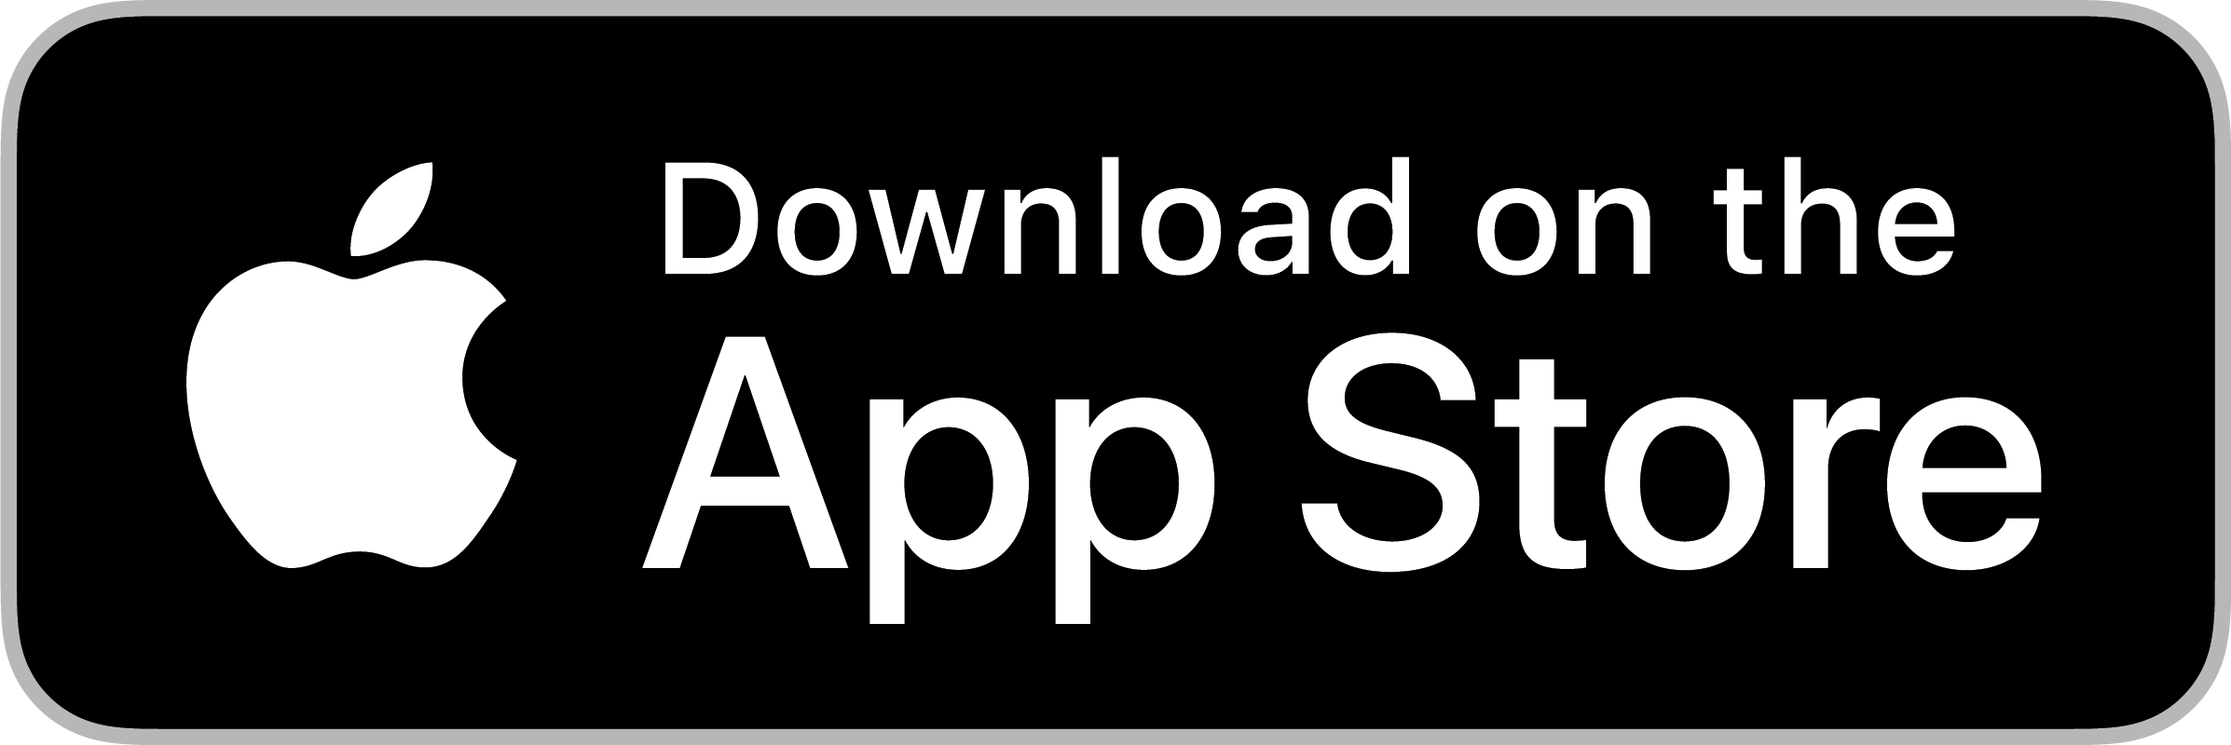
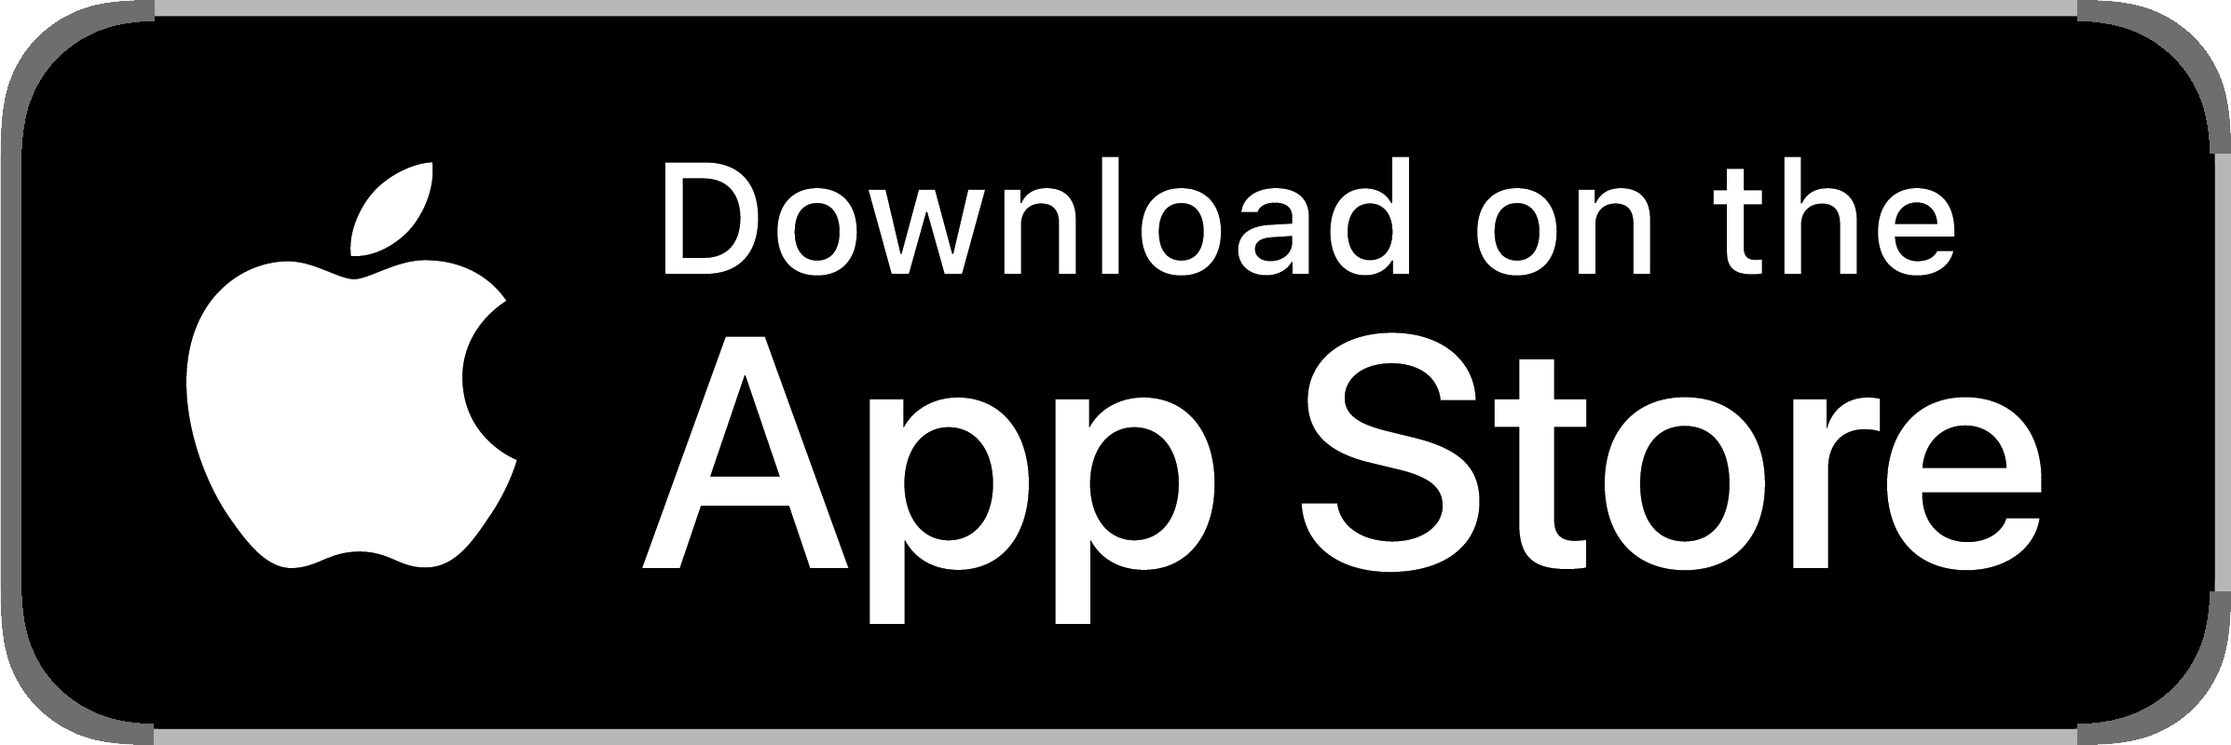
Add Color Blocks on Google Play + fix App Store badge border
Color Blocks (Android):
- color-blocks page: Google Play badge in hero + download CTA, Android
  in meta/JSON-LD (gamePlatform/operatingSystem/sameAs), FAQ, and copy
- Homepage Color Blocks tile: "iOS + Android" chip + "Also on Google Play"
- llms.txt, homepage schema/FAQs, and About now state two Android games
  (Solitaire, FreeCell and Spider + Color Blocks) and three iOS-only
  (Sudoku, Block Blast, Sudoku Blocks)

Install banner:
- app-banner.js kept as a single site-wide Solitaire promo on Android;
  documented one-object switch path for when Sudoku launches on Play

App Store badge:
- Regenerated Images/common/app-store-badge.png with a uniform-thickness
  border matching Google Play (color rgb(110,110,110)); the baked border
  was thin/absent at the rounded corners
- game.css: App Store badge border-radius 12px -> 0 so its native uniform
  border is no longer clipped at the corners

Changed region(s): [[0.0, 0.0, 0.0927, 1.0], [0.9273, 0.7812, 1.0, 1.0], [0.9273, 0.0, 1.0, 0.2188]]

diff --git a/color-blocks/index.html b/color-blocks/index.html
@@ -18,7 +18,7 @@
     <link rel="preload" as="image" href="/Images/color-blocks/icon.webp" fetchpriority="high">
     <meta name="google-site-verification" content="fRBxRKZFsAS5mQhSz_xLAbIeAymrdOOZXCcoSzE9fDw" />
     <title>Color Blocks — Colour-Match Puzzle | ASApps Games</title>
-    <meta name="description" content="Match 3+ blocks of the same color in this addictive puzzle game. Drag & drop blocks, create combos & unlock new colors. Free for iPhone & iPad. No pop-up ads.">
+    <meta name="description" content="Match 3+ blocks of the same color in this addictive puzzle game. Drag & drop blocks, create combos & unlock new colors. Free for iPhone, iPad & Android. No pop-up ads.">
     <link rel="canonical" href="https://asappsgames.com/color-blocks/">
     <meta property="og:title" content="Color Blocks - Addictive Color Match Puzzle Game">
     <meta property="og:description" content="Drag and drop multi-color blocks and match 3 or more of the same color. Unlock new colors, create combos, and play without pop-up ads. Rated 4.7 stars.">
@@ -42,12 +42,12 @@
                 "@id": "https://asappsgames.com/color-blocks/#game",
                 "name": "Color Blocks - Block Match",
                 "alternateName": ["Color Blocks", "Color Blocks Wooduko"],
-                "description": "Free color-matching block puzzle game for iPhone and iPad with no pop-up ads, no full-screen interruptions, and no required in-app purchases. Drag and drop multi-color blocks, match three or more blocks of the same color to clear them, create combos, and unlock new colors as you score higher. Works offline.",
+                "description": "Free color-matching block puzzle game for iPhone, iPad, and Android with no pop-up ads, no full-screen interruptions, and no required in-app purchases. Drag and drop multi-color blocks, match three or more blocks of the same color to clear them, create combos, and unlock new colors as you score higher. Works offline.",
                 "applicationCategory": "GameApplication",
                 "applicationSubCategory": "Puzzle",
                 "genre": ["Puzzle", "Color Match", "Casual"],
-                "gamePlatform": ["iOS", "iPhone", "iPad"],
-                "operatingSystem": "iOS 13.0 or later",
+                "gamePlatform": ["iOS", "iPhone", "iPad", "Android"],
+                "operatingSystem": "iOS 13.0 or later; Android",
                 "inLanguage": "en",
                 "offers": {
                     "@type": "Offer",
@@ -74,7 +74,10 @@
                 "url": "https://asappsgames.com/color-blocks/",
                 "installUrl": "https://apps.apple.com/us/app/color-blocks-block-match/id1476903896",
                 "downloadUrl": "https://apps.apple.com/us/app/color-blocks-block-match/id1476903896",
-                "sameAs": "https://apps.apple.com/us/app/color-blocks-block-match/id1476903896",
+                "sameAs": [
+                    "https://apps.apple.com/us/app/color-blocks-block-match/id1476903896",
+                    "https://play.google.com/store/apps/details?id=com.ASAppsGamesAU.colorBlocks"
+                ],
                 "author": { "@id": "https://asappsgames.com/#organization" },
                 "publisher": { "@id": "https://asappsgames.com/#organization" }
             },
@@ -139,7 +142,7 @@
                         "name": "Is Color Blocks available on Android?",
                         "acceptedAnswer": {
                             "@type": "Answer",
-                            "text": "Currently iOS only — iPhone, iPad, and iPod touch."
+                            "text": "Yes. Color Blocks is available on Android via Google Play, and on iPhone, iPad, and iPod touch via the App Store."
                         }
                     }
                 ]
@@ -176,7 +179,7 @@
         <section class="game-detail-section">
             <div class="game-detail-container animate-on-scroll">
                 <div class="game-detail-header">
-                    <img fetchpriority="high" width="240" height="240" src="/Images/color-blocks/icon.webp" alt="Color Blocks - Block Match — color-matching puzzle app icon for iPhone and iPad" class="game-detail-icon">
+                    <img fetchpriority="high" width="240" height="240" src="/Images/color-blocks/icon.webp" alt="Color Blocks - Block Match — color-matching puzzle app icon for iPhone, iPad and Android" class="game-detail-icon">
                     <div>
                         <nav class="crumbs" aria-label="Breadcrumb"><a href="https://asappsgames.com/">Home</a> <span style="opacity:.5">&rsaquo;</span> <strong>Color Blocks</strong></nav>
                 <h1>Color Blocks</h1>
@@ -190,9 +193,14 @@
                     <span class="feature-tag">Unique Gameplay</span>
                 </div>
 
-                <a href="https://apps.apple.com/us/app/color-blocks-block-match/id1476903896" class="app-store-button" rel="noopener" target="_blank">
-                    <img src="/Images/common/app-store-badge.png" alt="Download Color Blocks on the App Store" loading="lazy">
-                </a>
+                <div class="store-badges">
+                    <a href="https://apps.apple.com/us/app/color-blocks-block-match/id1476903896" class="app-store-button" rel="noopener" target="_blank">
+                        <img src="/Images/common/app-store-badge.png" alt="Download Color Blocks on the App Store" loading="lazy">
+                    </a>
+                    <a href="https://play.google.com/store/apps/details?id=com.ASAppsGamesAU.colorBlocks" class="app-store-button google-play-button" rel="noopener" target="_blank">
+                        <img src="/Images/common/google-play-badge.png" alt="Get Color Blocks on Google Play" loading="lazy">
+                    </a>
+                </div>
 
                 <div class="game-slider" data-game="color-blocks">
                     <div class="slider-nav"></div>
@@ -200,7 +208,7 @@
 
                 <div class="game-detail-description">
                     <h2>About Color Blocks</h2>
-                    <p>Color Blocks is a free color-matching block puzzle game for iPhone and iPad with <strong>no pop-up ads and no required in-app purchases</strong>. Drag and drop multi-color blocks onto the board, match three or more blocks of the same color to clear them, create combos for bonus points, and unlock new colors as your score grows. Works fully offline.</p>
+                    <p>Color Blocks is a free color-matching block puzzle game for iPhone, iPad, and Android with <strong>no pop-up ads and no required in-app purchases</strong>. Drag and drop multi-color blocks onto the board, match three or more blocks of the same color to clear them, create combos for bonus points, and unlock new colors as your score grows. Works fully offline.</p>
                     <p>As your score increases, new colors unlock, adding layers of strategy and challenge to every round. Use boosters and the hammer tool strategically to overcome tough spots. With its progressive color-unlocking system, every game session feels fresh and rewarding.</p>
 
                     <h2>Key Features</h2>
@@ -232,7 +240,7 @@
                     <h3>Does Color Blocks have leaderboards?</h3>
                     <p>Yes. Color Blocks integrates with Apple Game Center for leaderboards and achievements.</p>
                     <h3>Is Color Blocks available on Android?</h3>
-                    <p>Currently iOS only — iPhone, iPad, and iPod touch.</p>
+                    <p>Yes. Color Blocks is available on Android via Google Play, and on iPhone, iPad, and iPod touch via the App Store.</p>
                 </div>
 
 
@@ -251,10 +259,15 @@
 
                 <div class="game-detail-cta">
                     <h2>Download Color Blocks Free</h2>
-                    <p>Available on iPhone, iPad, and iPod touch.</p>
-                    <a href="https://apps.apple.com/us/app/color-blocks-block-match/id1476903896" class="app-store-button" rel="noopener" target="_blank">
-                        <img src="/Images/common/app-store-badge.png" alt="Download Color Blocks on the App Store" loading="lazy">
-                    </a>
+                    <p>Available on iPhone, iPad, and iPod touch via the App Store, and on Android via Google Play.</p>
+                    <div class="store-badges" style="justify-content:center">
+                        <a href="https://apps.apple.com/us/app/color-blocks-block-match/id1476903896" class="app-store-button" rel="noopener" target="_blank">
+                            <img src="/Images/common/app-store-badge.png" alt="Download Color Blocks on the App Store" loading="lazy">
+                        </a>
+                        <a href="https://play.google.com/store/apps/details?id=com.ASAppsGamesAU.colorBlocks" class="app-store-button google-play-button" rel="noopener" target="_blank">
+                            <img src="/Images/common/google-play-badge.png" alt="Get Color Blocks on Google Play" loading="lazy">
+                        </a>
+                    </div>
                 </div>
 
                 <div class="more-games">

diff --git a/index.html b/index.html
@@ -44,7 +44,7 @@
                 "alternateName": "AS Apps Games",
                 "url": "https://asappsgames.com/",
                 "logo": "https://asappsgames.com/Images/common/app-store-badge.png",
-                "description": "Independent mobile game studio publishing puzzle games with no pop-up ads. No pop-up ads, no full-screen interruptions, no required in-app purchases. Five titles on iPhone and iPad — with Solitaire, FreeCell and Spider also on Android via Google Play: Sudoku No Pop-up Ads, Color Blocks, Block Blast Puzzle Jewel, Sudoku Blocks, and Solitaire, FreeCell and Spider.",
+                "description": "Independent mobile game studio publishing puzzle games with no pop-up ads. No pop-up ads, no full-screen interruptions, no required in-app purchases. Five titles on iPhone and iPad — with Solitaire, FreeCell and Spider and Color Blocks also on Android via Google Play: Sudoku No Pop-up Ads, Color Blocks, Block Blast Puzzle Jewel, Sudoku Blocks, and Solitaire, FreeCell and Spider.",
                 "contactPoint": {
                     "@type": "ContactPoint",
                     "email": "support@asappsgames.com",
@@ -66,7 +66,7 @@
             {
                 "@type": "ItemList",
                 "name": "Puzzle & Card Games with No Pop-up Ads by ASApps Games",
-                "description": "Five games published by ASApps Games, free to download with no pop-up ads, no full-screen interruptions, and no required in-app purchases. All on the App Store for iPhone and iPad; Solitaire, FreeCell and Spider is also on Google Play for Android.",
+                "description": "Five games published by ASApps Games, free to download with no pop-up ads, no full-screen interruptions, and no required in-app purchases. All on the App Store for iPhone and iPad; Solitaire, FreeCell and Spider and Color Blocks are also on Google Play for Android.",
                 "itemListElement": [
                     { "@type": "ListItem", "position": 1, "name": "Color Blocks - Block Match", "url": "https://asappsgames.com/color-blocks/" },
                     { "@type": "ListItem", "position": 2, "name": "Sudoku No Pop-up Ads", "url": "https://asappsgames.com/sudoku/" },
@@ -83,7 +83,7 @@
                         "name": "What is ASApps Games?",
                         "acceptedAnswer": {
                             "@type": "Answer",
-                            "text": "ASApps Games is an independent mobile game studio. It publishes five free puzzle and card games for iPhone and iPad — Sudoku No Pop-up Ads, Color Blocks, Block Blast Puzzle Jewel, Sudoku Blocks Tetra, and Solitaire, FreeCell and Spider (which is also on Android via Google Play) — all of which run without pop-up ads, full-screen interruptions, or required in-app purchases."
+                            "text": "ASApps Games is an independent mobile game studio. It publishes five free puzzle and card games for iPhone and iPad — Sudoku No Pop-up Ads, Color Blocks, Block Blast Puzzle Jewel, Sudoku Blocks Tetra, and Solitaire, FreeCell and Spider — all of which run without pop-up ads, full-screen interruptions, or required in-app purchases. Color Blocks and Solitaire, FreeCell and Spider are also available on Android via Google Play."
                         }
                     },
                     {
@@ -107,7 +107,7 @@
                         "name": "Are ASApps Games available on Android?",
                         "acceptedAnswer": {
                             "@type": "Answer",
-                            "text": "Solitaire, FreeCell and Spider is available on Android via Google Play. The other four games — Sudoku No Pop-up Ads, Color Blocks, Block Blast Puzzle Jewel, and Sudoku Blocks, Tetra — are currently iOS only (iPhone, iPad, and iPod touch)."
+                            "text": "Two games are available on Android via Google Play: Solitaire, FreeCell and Spider, and Color Blocks. The other three — Sudoku No Pop-up Ads, Block Blast Puzzle Jewel, and Sudoku Blocks, Tetra — are currently iOS only (iPhone, iPad, and iPod touch)."
                         }
                     },
                     {
@@ -123,7 +123,7 @@
                         "name": "Who develops ASApps Games?",
                         "acceptedAnswer": {
                             "@type": "Answer",
-                            "text": "ASApps Games is an independent mobile game studio. Its games are published under a single App Store developer account, with Solitaire, FreeCell and Spider also on Google Play for Android."
+                            "text": "ASApps Games is an independent mobile game studio. Its games are published under a single App Store developer account, with Solitaire, FreeCell and Spider and Color Blocks also on Google Play for Android."
                         }
                     }
                 ]
@@ -365,8 +365,9 @@
                             <span class="rating"><span class="starbar" style="--pct:94%"><span class="row base"><svg viewBox="0 0 20 20"><path d="M10 1l2.4 4.8 5.3.8-3.9 3.8.9 5.3L10 13.3l-4.8 2.5.9-5.3L2.3 6.6l5.3-.8z"/></svg><svg viewBox="0 0 20 20"><path d="M10 1l2.4 4.8 5.3.8-3.9 3.8.9 5.3L10 13.3l-4.8 2.5.9-5.3L2.3 6.6l5.3-.8z"/></svg><svg viewBox="0 0 20 20"><path d="M10 1l2.4 4.8 5.3.8-3.9 3.8.9 5.3L10 13.3l-4.8 2.5.9-5.3L2.3 6.6l5.3-.8z"/></svg><svg viewBox="0 0 20 20"><path d="M10 1l2.4 4.8 5.3.8-3.9 3.8.9 5.3L10 13.3l-4.8 2.5.9-5.3L2.3 6.6l5.3-.8z"/></svg><svg viewBox="0 0 20 20"><path d="M10 1l2.4 4.8 5.3.8-3.9 3.8.9 5.3L10 13.3l-4.8 2.5.9-5.3L2.3 6.6l5.3-.8z"/></svg></span><span class="row full"><svg viewBox="0 0 20 20"><path d="M10 1l2.4 4.8 5.3.8-3.9 3.8.9 5.3L10 13.3l-4.8 2.5.9-5.3L2.3 6.6l5.3-.8z"/></svg><svg viewBox="0 0 20 20"><path d="M10 1l2.4 4.8 5.3.8-3.9 3.8.9 5.3L10 13.3l-4.8 2.5.9-5.3L2.3 6.6l5.3-.8z"/></svg><svg viewBox="0 0 20 20"><path d="M10 1l2.4 4.8 5.3.8-3.9 3.8.9 5.3L10 13.3l-4.8 2.5.9-5.3L2.3 6.6l5.3-.8z"/></svg><svg viewBox="0 0 20 20"><path d="M10 1l2.4 4.8 5.3.8-3.9 3.8.9 5.3L10 13.3l-4.8 2.5.9-5.3L2.3 6.6l5.3-.8z"/></svg><svg viewBox="0 0 20 20"><path d="M10 1l2.4 4.8 5.3.8-3.9 3.8.9 5.3L10 13.3l-4.8 2.5.9-5.3L2.3 6.6l5.3-.8z"/></svg></span></span><span class="rating-num">4.7</span></span>
                         </div>
                     </div>
-                    <div class="chips"><span class="chip">Match 3</span><span class="chip">Easy</span></div>
+                    <div class="chips"><span class="chip">Match 3</span><span class="chip">Easy</span><span class="chip">iOS + Android</span></div>
                     <a href="https://apps.apple.com/us/app/color-blocks-block-match/id1476903896" class="btn-c" rel="noopener" target="_blank"><svg viewBox="0 0 24 24"><path d="M16.5 1.6c.1 1-.3 2-.9 2.8-.7.8-1.7 1.4-2.7 1.3-.1-1 .4-2 .9-2.7.7-.8 1.8-1.4 2.7-1.4zM19.6 17c-.5 1.2-.8 1.7-1.4 2.7-.9 1.4-2.1 3.1-3.6 3.1-1.3 0-1.7-.9-3.5-.9s-2.2.8-3.5.9c-1.5.1-2.6-1.5-3.5-2.9C1.2 16.9.9 12.2 2.5 9.7c1-1.6 2.6-2.5 4.1-2.5 1.5 0 2.5.9 3.5.9 1 0 1.7-.9 3.5-.9 1.3 0 2.7.7 3.7 2-3.2 1.8-2.7 6.4.8 7.8z"/></svg> Get it free</a>
+                    <a href="https://play.google.com/store/apps/details?id=com.ASAppsGamesAU.colorBlocks" rel="noopener" target="_blank" style="display:block;text-align:center;margin-top:9px;font-size:12.5px;font-weight:600;color:var(--muted)">Also on Google Play →</a>
                 </article>
 
                 <article class="tile reveal" data-href="/solitaire/" style="--c:var(--c-solitaire)">

diff --git a/about/index.html b/about/index.html
@@ -50,7 +50,7 @@
                 "alternateName": "AS Apps Games",
                 "url": "https://asappsgames.com/",
                 "logo": "https://asappsgames.com/Images/common/app-store-badge.png",
-                "description": "Independent mobile game studio publishing puzzle and card games with no pop-up ads. No pop-up ads, no full-screen interruptions, no required in-app purchases, no subscriptions to play. Five titles on iPhone and iPad, with Solitaire, FreeCell and Spider also on Android via Google Play.",
+                "description": "Independent mobile game studio publishing puzzle and card games with no pop-up ads. No pop-up ads, no full-screen interruptions, no required in-app purchases, no subscriptions to play. Five titles on iPhone and iPad, with Solitaire, FreeCell and Spider and Color Blocks also on Android via Google Play.",
                 "foundingDate": "2016",
                 "knowsAbout": ["Sudoku", "Solitaire", "Klondike", "FreeCell", "Spider Solitaire", "Block puzzle games", "Casual mobile puzzle games"],
                 "contactPoint": {
@@ -117,7 +117,7 @@
                     <p>Being honest about it matters to us: our games are free, supported by a <strong>small banner</strong> and <strong>optional short ads you choose to watch</strong> — for example, to continue after a few mistakes or to get a hint. Nothing is forced, and every core feature is free.</p>
 
                     <h2>Our games</h2>
-                    <p>Five free puzzle and card games for iPhone and iPad — with Solitaire, FreeCell and Spider also on Android via Google Play:</p>
+                    <p>Five free puzzle and card games for iPhone and iPad — with Solitaire, FreeCell and Spider and Color Blocks also on Android via Google Play:</p>
                     <div class="about-games">
                         <a href="/sudoku/" class="about-game"><img src="/Images/sudoku/icon.webp" alt="Sudoku No Pop-up Ads" width="48" height="48" loading="lazy"><span><b>Sudoku No Pop-up Ads</b><span>Six difficulty levels</span></span></a>
                         <a href="/solitaire/" class="about-game"><img src="/Images/solitaire/icon.webp" alt="Solitaire, FreeCell and Spider" width="48" height="48" loading="lazy"><span><b>Solitaire, FreeCell and Spider</b><span>Klondike, FreeCell &amp; Spider</span></span></a>
@@ -135,7 +135,7 @@
                     </ul>
 
                     <h2>Built for iPhone, iPad &amp; Android</h2>
-                    <p>All our games are built for iPhone and iPad, and Solitaire, FreeCell and Spider is also available on Android via Google Play. They play offline and are updated regularly based on player feedback. We're a tiny team, we read every message, and we'd genuinely love to hear from you at <a href="mailto:support@asappsgames.com" style="color:var(--c);font-weight:600">support@asappsgames.com</a>.</p>
+                    <p>All our games are built for iPhone and iPad, and Solitaire, FreeCell and Spider and Color Blocks are also available on Android via Google Play. They play offline and are updated regularly based on player feedback. We're a tiny team, we read every message, and we'd genuinely love to hear from you at <a href="mailto:support@asappsgames.com" style="color:var(--c);font-weight:600">support@asappsgames.com</a>.</p>
                 </div>
 
                 <div class="game-detail-cta">

diff --git a/app-banner.js b/app-banner.js
@@ -1,11 +1,21 @@
 /* ASApps Games — Android "Get it on Google Play" smart banner.
    Android-only, dismissible (remembered), self-contained (injects its own CSS).
    iOS uses Apple's native Smart App Banner (apple-itunes-app meta), so this stays hidden there.
-   The only ASApps app on Google Play is Solitaire, FreeCell & Spider, so it always points there. */
+
+   This is a single site-wide "featured Android app" promo. It currently points to
+   Solitaire, FreeCell & Spider on every Android page. When Sudoku launches on Google Play,
+   switch the featured app by editing the APP object below (id / name / icon) — nothing else. */
 (function () {
     'use strict';
 
-    var PLAY_URL = 'https://play.google.com/store/apps/details?id=com.ASAppsGamesAU.solitaire';
+    // The featured Android app promoted across the whole site (see note above).
+    var APP = {
+        id: 'com.ASAppsGamesAU.solitaire',
+        name: 'Solitaire, FreeCell & Spider',
+        icon: '/Images/solitaire/icon.webp'
+    };
+
+    var PLAY_URL = 'https://play.google.com/store/apps/details?id=' + APP.id;
     var STORAGE_KEY = 'asapps_gp_banner_dismissed';
 
     // Android phones/tablets only — never iOS (native banner) or desktop.
@@ -45,7 +55,7 @@
         var bar = document.createElement('div');
         bar.id = 'gp-smart-banner';
         bar.setAttribute('role', 'complementary');
-        bar.setAttribute('aria-label', 'Get Solitaire on Google Play');
+        bar.setAttribute('aria-label', 'Get ' + APP.name + ' on Google Play');
 
         var close = document.createElement('button');
         close.className = 'gp-close';
@@ -59,7 +69,7 @@
 
         var icon = document.createElement('img');
         icon.className = 'gp-icon';
-        icon.src = '/Images/solitaire/icon.webp';
+        icon.src = APP.icon;
         icon.alt = '';
         icon.width = 44;
         icon.height = 44;
@@ -69,7 +79,7 @@
         text.className = 'gp-text';
         var title = document.createElement('div');
         title.className = 'gp-title';
-        title.textContent = 'Solitaire, FreeCell & Spider';
+        title.textContent = APP.name;
         var sub = document.createElement('div');
         sub.className = 'gp-sub';
         sub.textContent = 'Free on Google Play';

diff --git a/game.css b/game.css
@@ -71,7 +71,7 @@ html.reveal-on .animate-on-scroll.is-visible{opacity:1;transform:none;transition
     border:1px solid color-mix(in srgb,var(--c) 28%,transparent)}
 
 .app-store-button{display:inline-block;transition:transform .16s ease,filter .16s ease;border-radius:13px}
-.app-store-button img{height:54px;display:block;border-radius:12px}
+.app-store-button img{height:54px;display:block;border-radius:0}
 .app-store-button:hover{transform:translateY(-2px);filter:drop-shadow(0 12px 22px rgba(0,0,0,.5))}
 .app-store-button:active{transform:scale(.97)}
 .store-badges{display:flex;flex-wrap:wrap;align-items:center;gap:12px}
